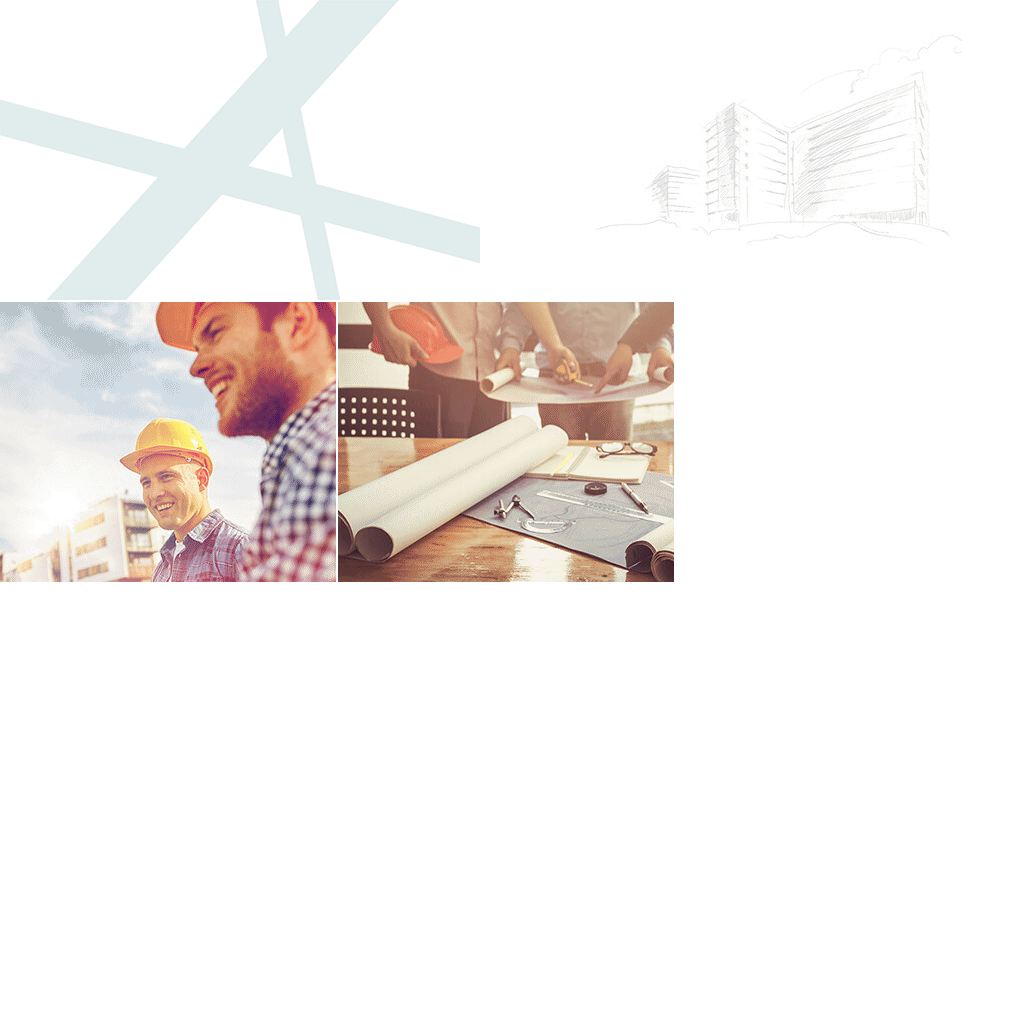
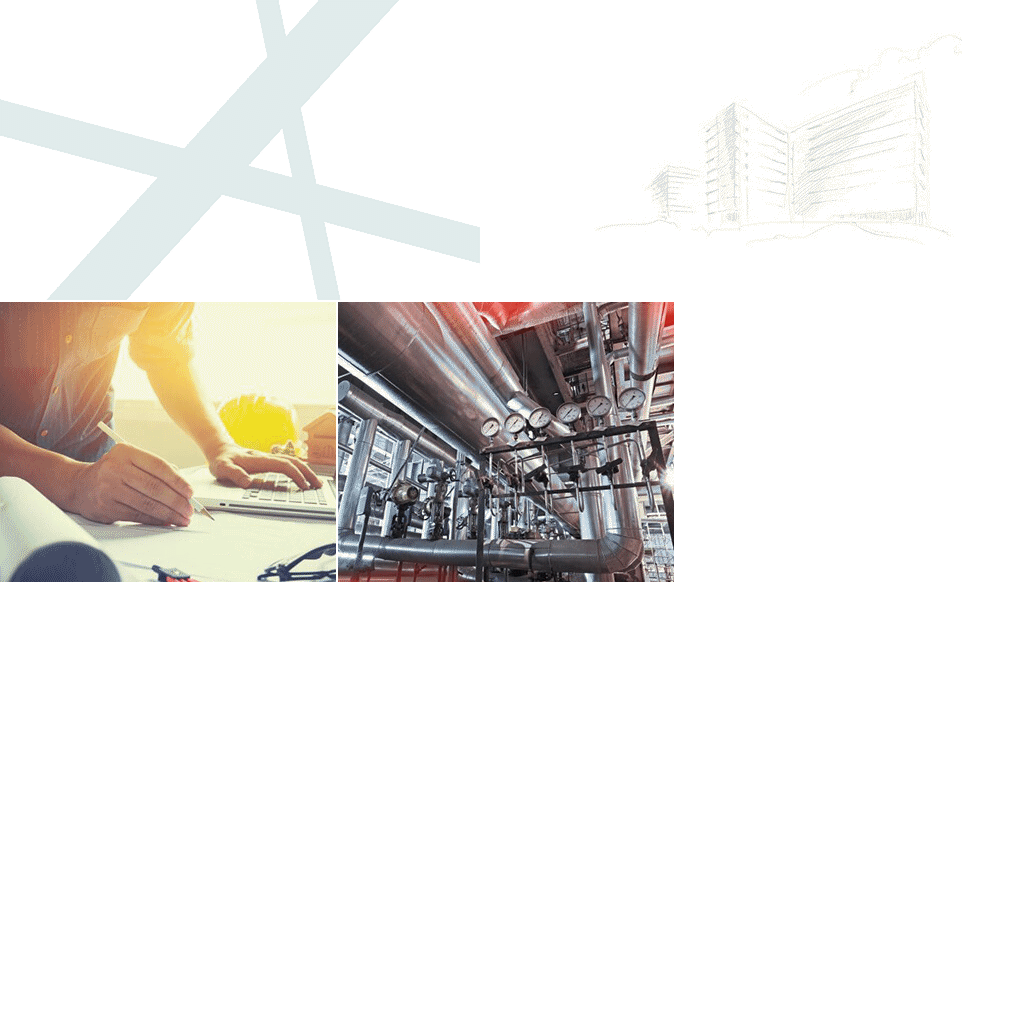
Add files via upload

Changed region(s): [[0.0, 0.2812, 0.6562, 0.5938]]

diff --git a/projector_336x280.js b/projector_336x280.js
@@ -3,7 +3,7 @@
 var p; // shortcut to reference prototypes
 var lib={};var ss={};var img={};
 lib.ssMetadata = [
-		{name:"projector_336x280_atlas_", frames: [[338,302,336,280],[0,302,336,280],[0,0,480,300],[482,0,480,300]]}
+		{name:"projector_336x280_atlas_", frames: [[0,302,336,280],[338,302,336,280],[0,0,480,300],[482,0,480,300]]}
 ];
 
 
